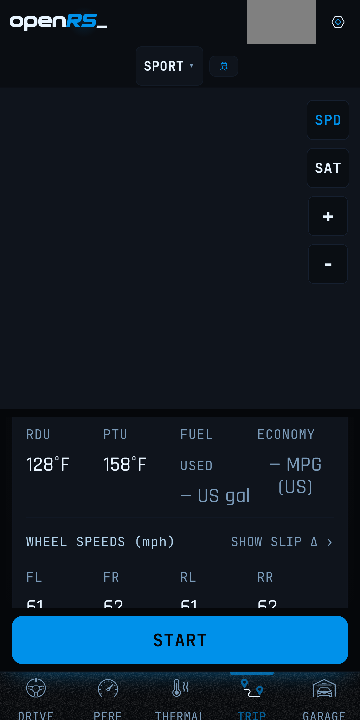
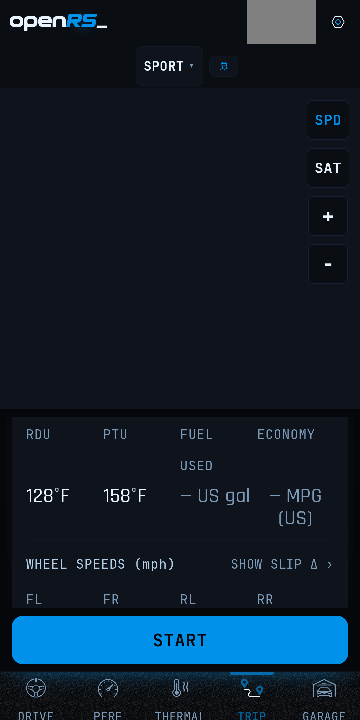
Start a readout row's values level when a caption wraps (#593)
ReadoutGrid draws a row's captions in a row of their own, so FUEL USED
wrapping at font 1.3 no longer drops its value below ECONOMY's (DIAG's
TEMP / CHARGE TARGET the same). Traversal indexes keep TalkBack reading
each caption with its value. A blank caption no longer throws in
ReadoutLabel. Re-recorded the four goldens whose values moved.

diff --git a/android/app/src/main/java/com/openrs/dash/ui/Instrument.kt b/android/app/src/main/java/com/openrs/dash/ui/Instrument.kt
@@ -35,6 +35,9 @@ import androidx.compose.ui.platform.LocalDensity
 import androidx.compose.ui.platform.LocalHapticFeedback
 import androidx.compose.ui.res.painterResource
 import androidx.compose.ui.text.font.FontWeight
+import androidx.compose.ui.semantics.isTraversalGroup
+import androidx.compose.ui.semantics.semantics
+import androidx.compose.ui.semantics.traversalIndex
 import androidx.compose.ui.unit.Dp
 import androidx.compose.ui.unit.TextUnit
 import androidx.compose.ui.unit.dp
@@ -381,7 +384,8 @@ internal data class Readout(
             maxLines = 1, softWrap = false,
         ).size.width
         val words = text.split(' ').filter { it.isNotEmpty() }
-        fun widest(scale: Float) = words.maxOf { width(it, scale) }
+        // A blank caption has no word: it fits as it is
+        fun widest(scale: Float) = words.maxOfOrNull { width(it, scale) } ?: 0
         if (widest(1f) <= constraints.maxWidth) {
             InstrumentLabel(text)
         } else {
@@ -417,24 +421,34 @@ internal data class Readout(
     ) {
         rows.forEachIndexed { i, row ->
             captions[i]?.let { InstrumentLabel(it, color = Mid) }
-            Row(Modifier.fillMaxWidth()) {
-                row.forEach { r ->
-                    Column(Modifier.weight(1f)) {
-                        if (r != null) {
-                            val placeholder = r.value.startsWith("—")
-                            ReadoutLabel(r.label)
-                            Spacer(Modifier.height(2.dp))
-                            DataNum(r.value, if (dense) 16.sp else 18.sp,
-                                if (placeholder) Dim else if (r.color == Color.Unspecified) Frost else r.color)
-                            r.sub?.let { MonoLabel(it, 9.sp, WarnInk, letterSpacing = 0.2.sp) }
-                            if (r.spark != null && !placeholder) {
-                                Spacer(Modifier.height(3.dp))
-                                com.openrs.dash.ui.anim.Sparkline(
-                                    data = r.spark,
-                                    lineColor = if (r.color == Color.Unspecified || r.color == Frost) accentMid() else r.color,
-                                    modifier = Modifier.fillMaxWidth().padding(end = 10.dp).height(16.dp),
-                                    strokeWidth = 1.dp, fillAlpha = 0.12f
-                                )
+            // Captions in a row of their own, so the values start level when one caption wraps (#593: FUEL USED at 1.3).
+            // TalkBack still reads each caption with its value: the traversal indexes put them back in pairs.
+            Column(Modifier.semantics { isTraversalGroup = true }) {
+                Row(Modifier.fillMaxWidth()) {
+                    row.forEachIndexed { c, r ->
+                        Box(Modifier.weight(1f).semantics { isTraversalGroup = true; traversalIndex = 2f * c }) {
+                            if (r != null) ReadoutLabel(r.label)
+                        }
+                    }
+                }
+                Spacer(Modifier.height(2.dp))
+                Row(Modifier.fillMaxWidth()) {
+                    row.forEachIndexed { c, r ->
+                        Column(Modifier.weight(1f).semantics { isTraversalGroup = true; traversalIndex = 2f * c + 1 }) {
+                            if (r != null) {
+                                val placeholder = r.value.startsWith("—")
+                                DataNum(r.value, if (dense) 16.sp else 18.sp,
+                                    if (placeholder) Dim else if (r.color == Color.Unspecified) Frost else r.color)
+                                r.sub?.let { MonoLabel(it, 9.sp, WarnInk, letterSpacing = 0.2.sp) }
+                                if (r.spark != null && !placeholder) {
+                                    Spacer(Modifier.height(3.dp))
+                                    com.openrs.dash.ui.anim.Sparkline(
+                                        data = r.spark,
+                                        lineColor = if (r.color == Color.Unspecified || r.color == Frost) accentMid() else r.color,
+                                        modifier = Modifier.fillMaxWidth().padding(end = 10.dp).height(16.dp),
+                                        strokeWidth = 1.dp, fillAlpha = 0.12f
+                                    )
+                                }
                             }
                         }
                     }

diff --git a/android/app/src/test/java/com/openrs/dash/TripReadoutFitTest.kt b/android/app/src/test/java/com/openrs/dash/TripReadoutFitTest.kt
@@ -41,6 +41,7 @@ import org.robolectric.annotation.Config
 import org.robolectric.annotation.GraphicsMode
 import org.robolectric.shadows.ShadowChoreographer
 import java.time.Duration
+import kotlin.math.abs
 
 /**
  * #593: at 360 dp and font 1.3 the label of TRIP's live readout grid ran into its neighbour ("FUEL USEDECONOMY").
@@ -171,6 +172,14 @@ class TripReadoutFitTest {
                 row.forEach { if (shrunk(it)) out += "[$case] '${textOf(it)}' shrunk below 10 sp though its words fit" }
                 // the text as drawn: a label's box is its text's width
                 row.zipWithNext().forEach { (a, b) -> gapProblem(case, a, b, density)?.let { out += it } }
+                // The values under a row's labels start level, however many lines a label takes (FUEL USED wraps at 1.3)
+                val values = row.map { label ->
+                    texts.filter { abs(box(it).left - box(label).left) < 0.5f && box(it).top >= box(label).bottom }
+                        .minByOrNull { box(it).top }
+                }
+                if (values.any { it == null }) out += "[$case] row '$start' values found: ${values.map { it?.let(::textOf) }}"
+                else if (values.maxOf { box(it!!).top } - values.minOf { box(it!!).top } > 0.5f)
+                    out += "[$case] row '$start' values start at ${values.map { "${textOf(it!!)} ${"%.1f".format(box(it).top / density)} dp" }}"
                 println("#593 [$case] ${row.map { textOf(it) to it.boundsInRoot.width / density }}")
             }
             return out
@@ -221,6 +230,27 @@ class TripReadoutFitTest {
                 row.sortedBy { box(it).left }.zipWithNext().forEach { (a, b) -> gapProblem(case, a, b, density)?.let { out += it } }
             }
             return out
+        } finally {
+            controller.pause().stop().destroy()
+            idle(8)
+        }
+    }
+
+    @Test fun `a blank readout caption draws without failing`() {
+        val controller = Robolectric.buildActivity(ComponentActivity::class.java).setup()
+        controller.get().setContent {
+            MaterialTheme(colorScheme = darkColorScheme(background = Bg, surface = Surf, primary = Accent)) {
+                ReadoutGrid(listOf(listOf(Readout("", "1.0"), Readout(" ", "2.0"), Readout("FUEL USED", "3.0"))))
+            }
+        }
+        try {
+            idle(30)
+            val root = composeRoot(controller.get().window.decorView)!!.semanticsOwner.unmergedRootSemanticsNode
+            val all = nodes(root)
+            assertEquals(listOf("1.0", "2.0", "3.0"), all.mapNotNull { textOf(it) }.filter { it.endsWith(".0") })
+            // Captions and values sit in rows of their own; TalkBack still reads each caption, then its value
+            fun index(text: String) = all.first { textOf(it) == text }.parent?.config?.getOrNull(SemanticsProperties.TraversalIndex)
+            assertEquals(listOf(4f, 5f), listOf(index("FUEL USED"), index("3.0")))
         } finally {
             controller.pause().stop().destroy()
             idle(8)

diff --git a/android/changelog.d/fixed/593-readout-values-level.md b/android/changelog.d/fixed/593-readout-values-level.md
@@ -1,0 +1,1 @@
+- **Readout values line up when a label wraps** — At font 1.3 TRIP's FUEL USED label wraps onto two lines, which pushed its value below ECONOMY's in the same row (DIAG's battery TEMP beside CHARGE TARGET the same). The readout grids now start every value in a row at the same height, TalkBack still reads each label with its value, and a blank label no longer stops the grid drawing (`TripReadoutFitTest`). ([#593](https://github.com/klexical/openRS_/issues/593))
